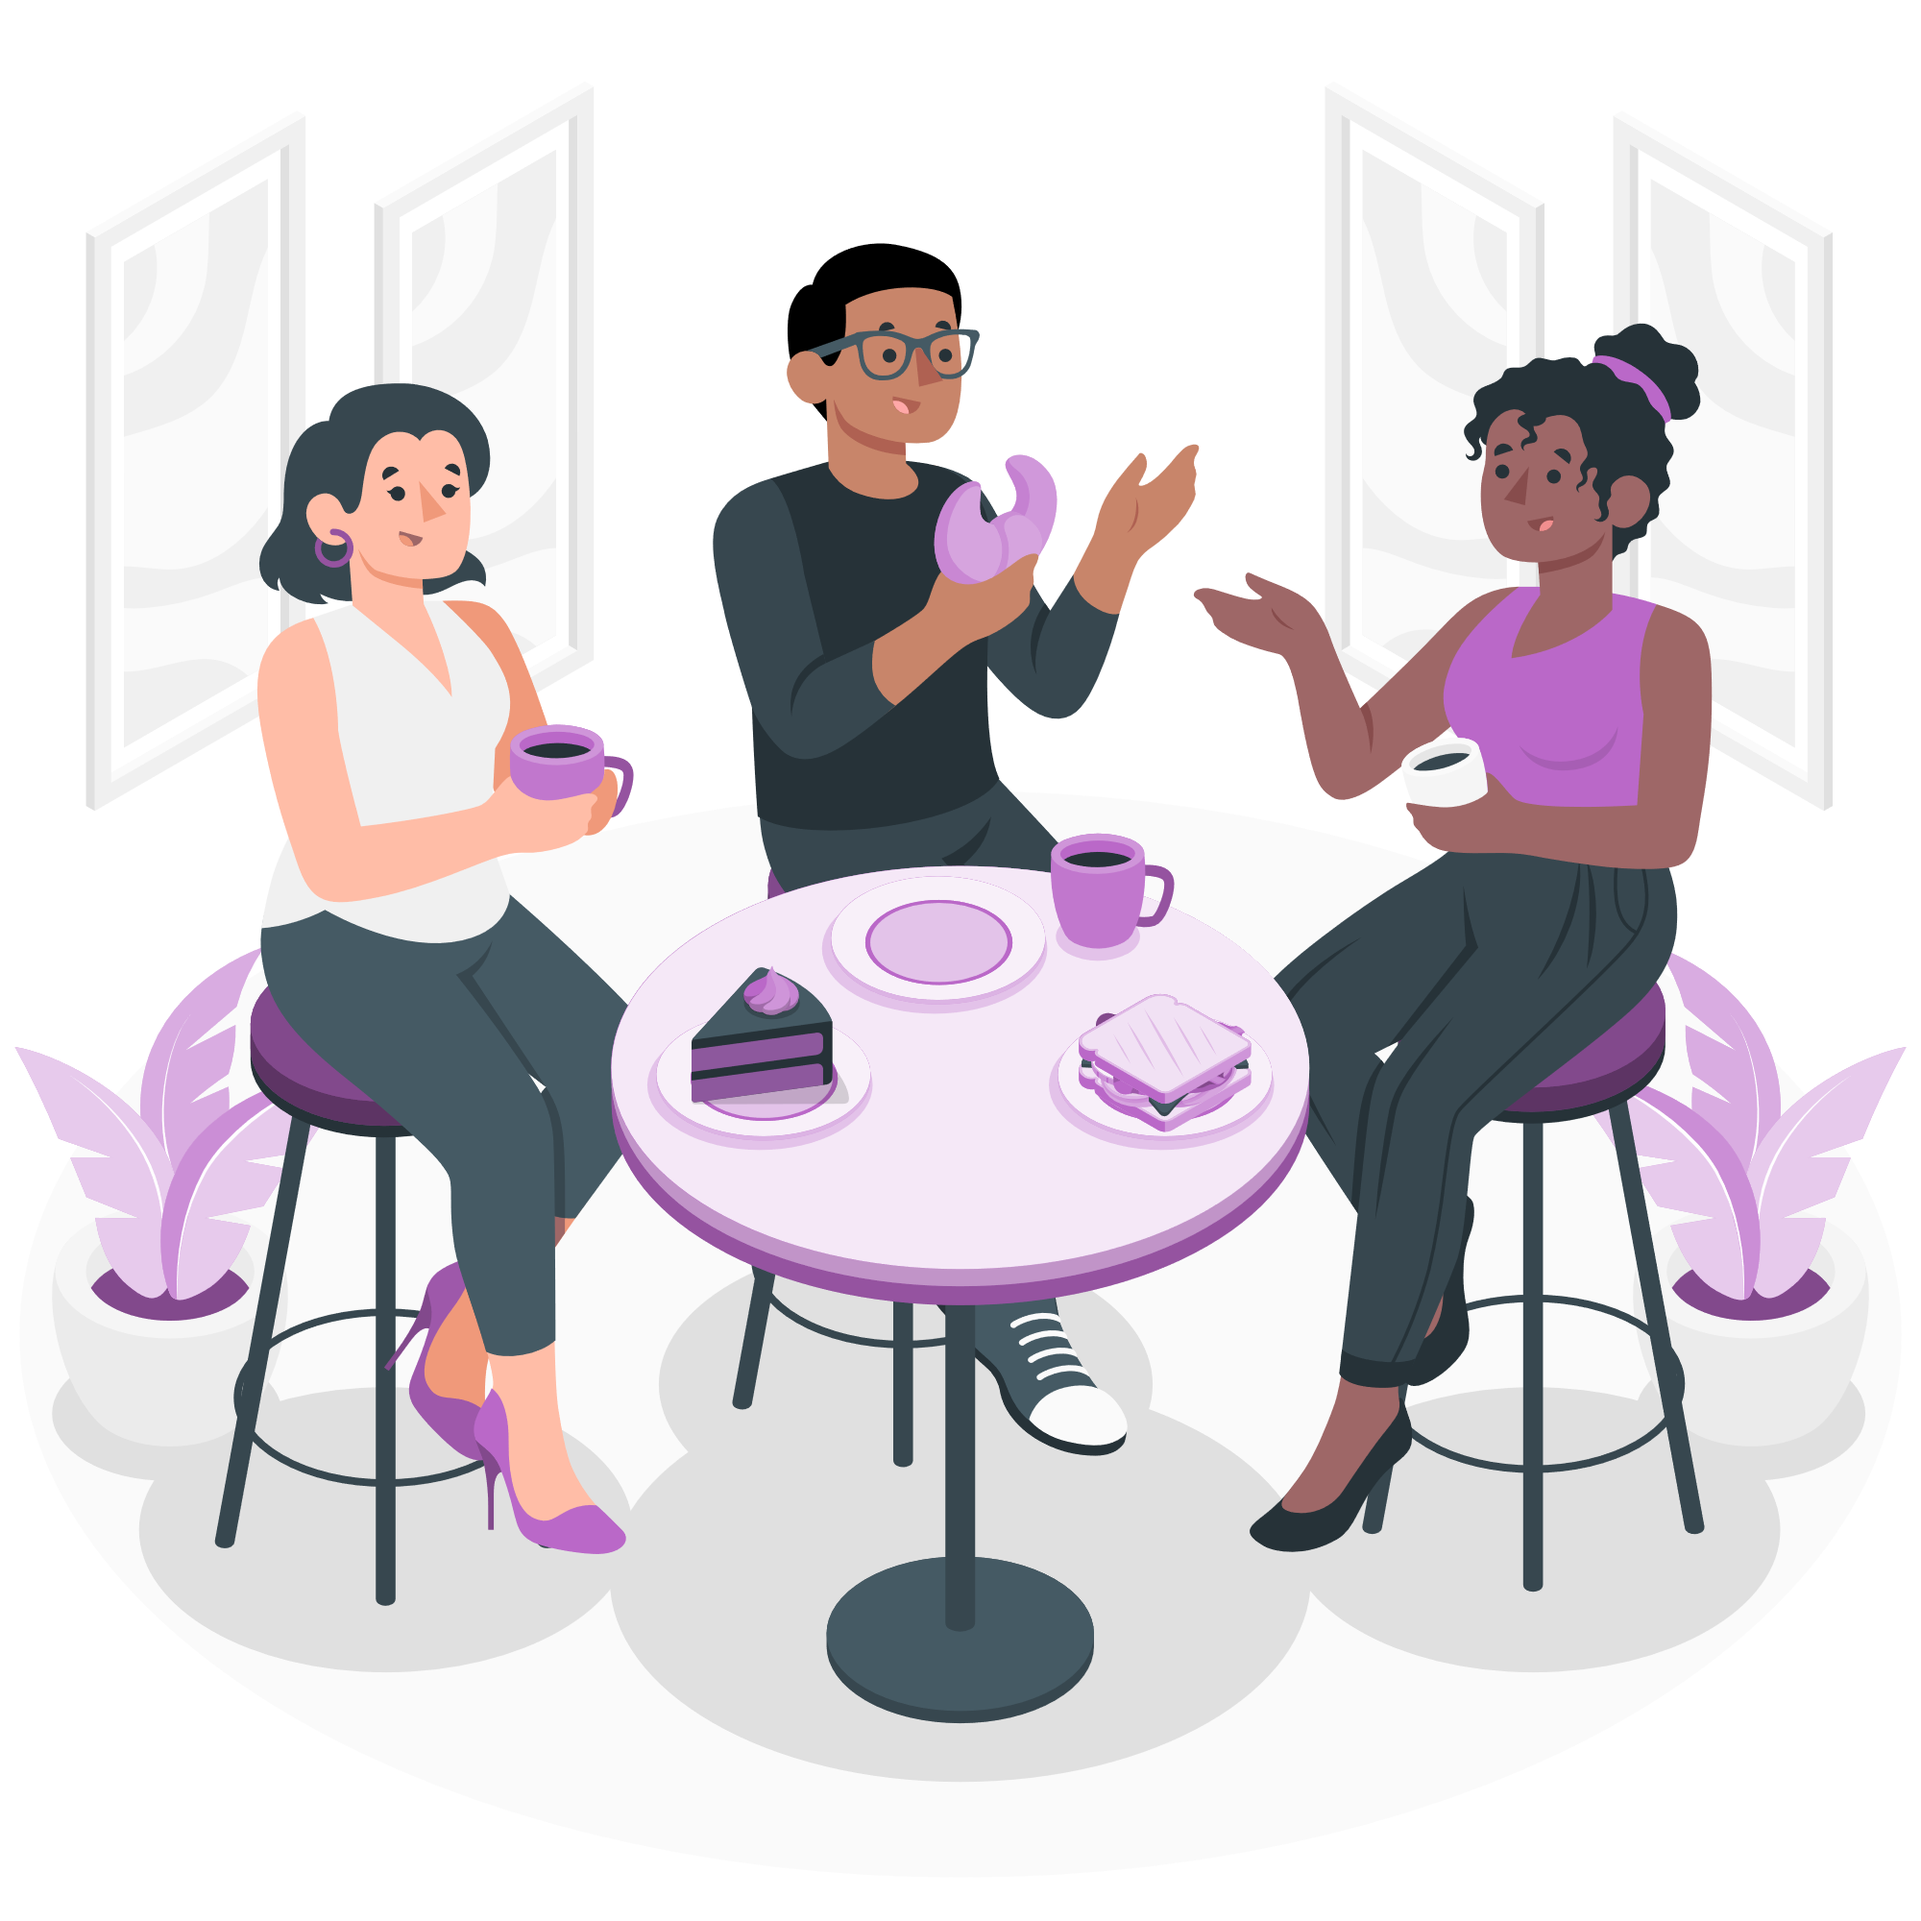
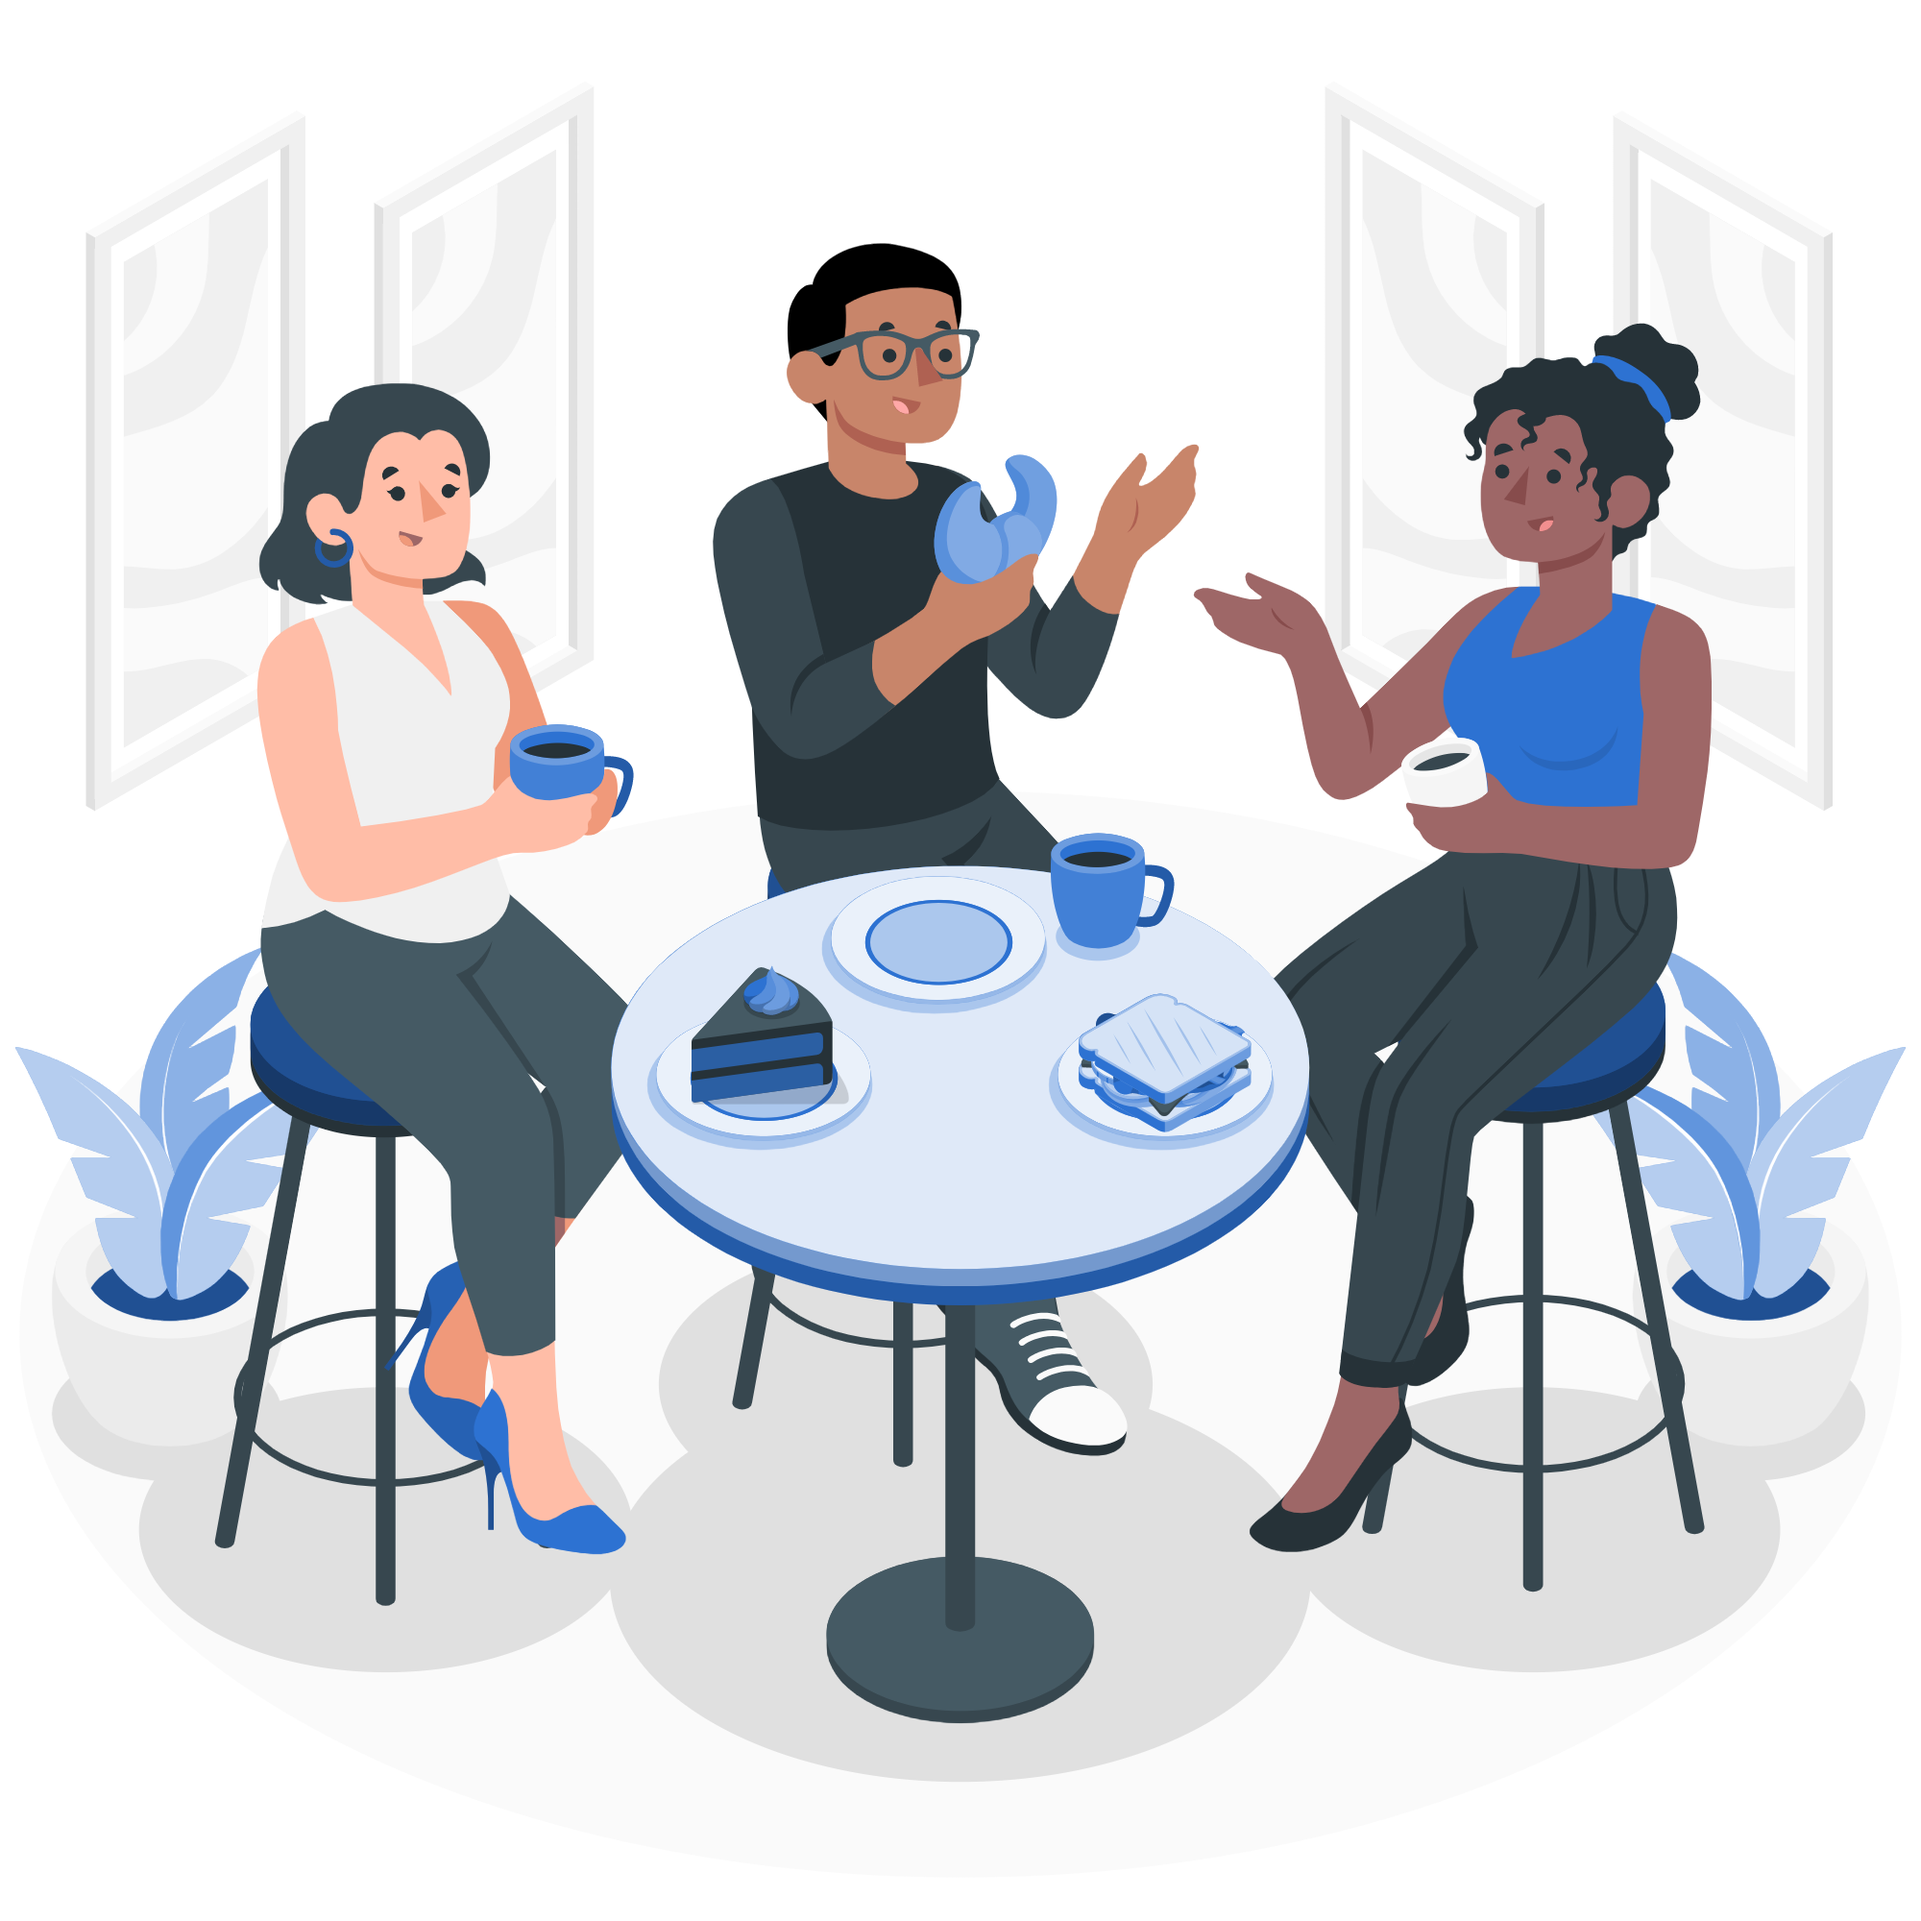
chore: minor style updates

diff --git a/src/components/About/About.js b/src/components/About/About.js
@@ -5,9 +5,9 @@ export default function About() {
     return (
         <div id="about">
             <div className="about-text">
-            <div className="about2">
+            {/* <div className="about2">
                 <img src={img2} alt=''/>
-            </div>
+            </div> */}
                 <h1>About Us</h1>
                 <p>
                     It is a long established fact that a reader will be distracted by the readable content of a page when looking at its layout. The point of using Lorem Ipsum is that it has a more-or-less normal distribution of letters, as opposed to using 'Content here, content here', making it look like readable English. Many desktop publishing packages and web page editors now use Lorem Ipsum as their default model text, and a search for 'lorem ipsum' will uncover many web sites still in their infancy. Various versions have evolved over the years, sometimes by accident, sometimes on purpose (injected humour and the like).

diff --git a/src/components/home.css b/src/components/home.css
@@ -171,7 +171,7 @@ header {
 .about-text h1 {
   font-size: 3.5rem;
   font-family: sans-serif;
-  color: #82498c;
+  color: #3673ce;
   text-align: center;
   font-weight: 800;
   position: absolute;
@@ -216,7 +216,7 @@ header {
 /* -------- Contact ------- */
 #contact {
   margin-top: 120px;
-  background-image: url(../images/footer.png);
+  background: url(../images/footer.png);
   width: 100%;
   display: flex;
   justify-content: center;
